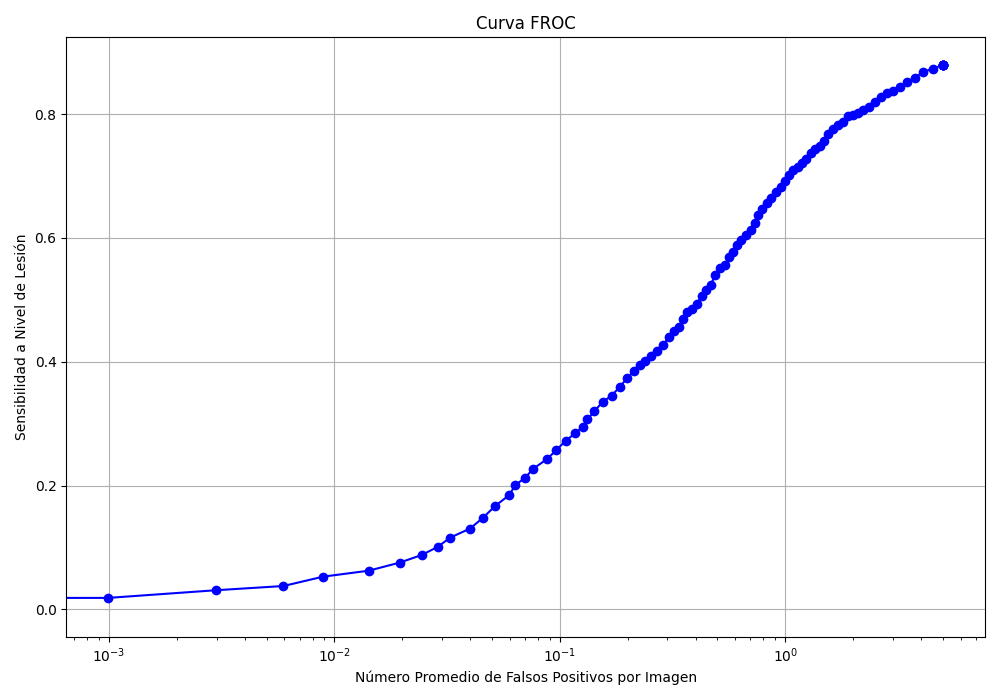
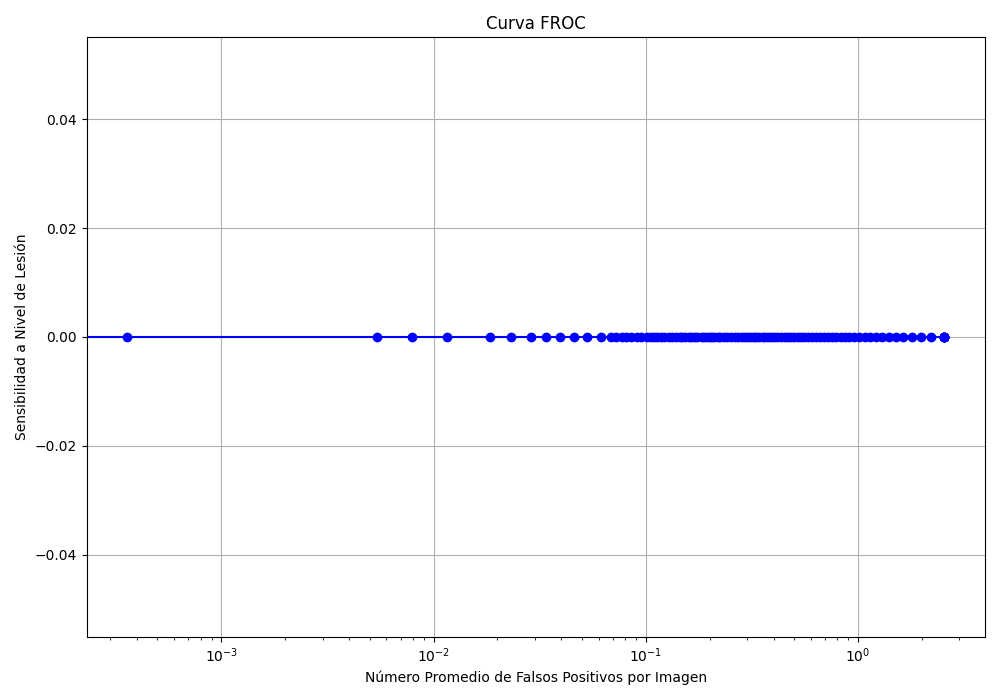
ultimos cambios 2

diff --git a/Yolo8Mamo/pruebas_lucia/inference/froc.py b/Yolo8Mamo/pruebas_lucia/inference/froc.py
@@ -4,8 +4,8 @@ import matplotlib.pyplot as plt
 import os
 
 
-detections_csv = '/home/lloprib/proyecto_mam/Mammography/Yolo8Mamo/pruebas_lucia/inference/detections.csv' # Ruta del archivo CSV con las detecciones
-ground_truth_csv = '/home/lloprib/proyecto_mam/Mammography/Yolo8Mamo/pruebas_lucia/inference/bounding_boxes_good.csv' # Ruta del archivo CSV con las ground truth
+detections_csv = '/home/lloprib/proyecto_mam/Mammography/Yolo8Mamo/pruebas_lucia/inference/inference_results/model_detections.csv' # Ruta del archivo CSV con las detecciones
+ground_truth_csv = '/home/lloprib/proyecto_mam/Mammography/Yolo8Mamo/pruebas_lucia/bboxes_ini_trans.csv' # Ruta del archivo CSV con las ground truth
 output_plot = 'froc_curve.png' # Ruta de la carpeta donde se guardará el gráfico FROC de salida
 
 # La columna 'cancer' indica si el maligno o benigno. Asumimos cancer = 1 como maligno y cancer = 0 como benigno
@@ -194,14 +194,6 @@ if __name__ == '__main__':
     print(f"Curva FROC guardada en: {output_plot}")
 
     from sklearn.metrics import auc
-    
-    # froc_auc = auc(fps_per_image_list, sensitivity_list)
-    # print(f"\nÁrea Bajo la Curva FROC (AUFROC): {froc_auc:.4f} 🚀") # Formato a 4 decimales
-
-    # plt.tight_layout()
-    # plt.savefig(output_plot) # Para almacenar el gráfico
-    # print(f"Curva FROC guardada en: {output_plot}")
-    # print("¡Proceso completado! 🎉")
 
     scores_cancer = all_detections_df.groupby('id').agg({'score': 'max'})
     print("Numb of images in scores = ", len(scores_cancer))

diff --git a/Yolo8Mamo/pruebas_lucia/train_mamo.py b/Yolo8Mamo/pruebas_lucia/train_mamo.py
@@ -59,20 +59,6 @@ data_module = DDSMPatchDataModule(config=config)
     
 #logger = get_logger(config) if args.logger else None
 
-# Dividir los elementos en dos conjuntos: 80% para entrenamiento y 20% para prueba
-#print("Entrada a la division de los conjuntos")
-
-# Calcular los tamaños de los conjuntos de entrenamiento y prueba
-#train_size = int(0.8 * len(total_dataset))
-#test_size = len(total_dataset) - train_size
-
-# Dividir el conjunto de datos en entrenamiento y prueba
-#train_dataset, test_dataset = random_split(total_dataset, [train_size, test_size])
-
-#train_dataset, test_dataset = train_test_split(total_dataset, test_size=0.2, random_state=42)
-
-#valid_size = int(0.2 * train_size)
-#train2_size = train_size - valid_size
 
 seed = torch.Generator().manual_seed(42)
 #_, valid_dataset = data.random_split(train_dataset, [train2_size, valid_size], generator = seed)
@@ -80,10 +66,6 @@ device = 'cuda'
 
 print("Dataset generados")
 
-
-#train_dataloader = DataLoader(train_dataset, batch_size=2, shuffle=True, collate_fn= lambda x: tuple(zip(*x)))
-#val_dataloader = DataLoader(valid_dataset, batch_size=2, shuffle=False, collate_fn= lambda x: tuple(zip(*x)))
-#test_dataloader = DataLoader(test_dataset, batch_size=2, shuffle=False, collate_fn= lambda x: tuple(zip(*x)))
 
 print("Dataloader generados")
 

diff --git a/Yolo8Mamo/pruebas_lucia/classes_dataset_DDSM.py b/Yolo8Mamo/pruebas_lucia/classes_dataset_DDSM.py
@@ -119,6 +119,11 @@ class DDSM_CustomDataset (Dataset): #Voy a crear un dataset personalizado a part
         target["boxes"] = boxes
         target["labels"] = labels
 
+        # Nuevo:
+        target["id"] = torch.tensor([idx], dtype=torch.int64)  # Añadir el índice de la imagen como ID
+        target["original_img_id_str"] = img_id 
+        # ----------------------------------------------------
+
         if self.transform:
             transformed = self.transform(
                 image=image,

diff --git a/Yolo8Mamo/pruebas_lucia/train/train_mamo_DDSM.py b/Yolo8Mamo/pruebas_lucia/train/train_mamo_DDSM.py
@@ -118,17 +118,6 @@ if __name__ == "__main__":
     data_module = DDSM_DataModule(config=config)
     
     
-    #logger = get_logger(config) if args.logger else None
-
-
-    # Trainer arguments
-    #callbacks = create_callbacks(config)
-    
-    
-    # Trainer
-    #trainer_kwargs = get_parameter(config, ["Trainer"], mode="default", default={})
-    
-    #print("Trainer kwargs: ", trainer_kwargs)
     
     Lmodel = DDSM_CustomModel(model)
 
